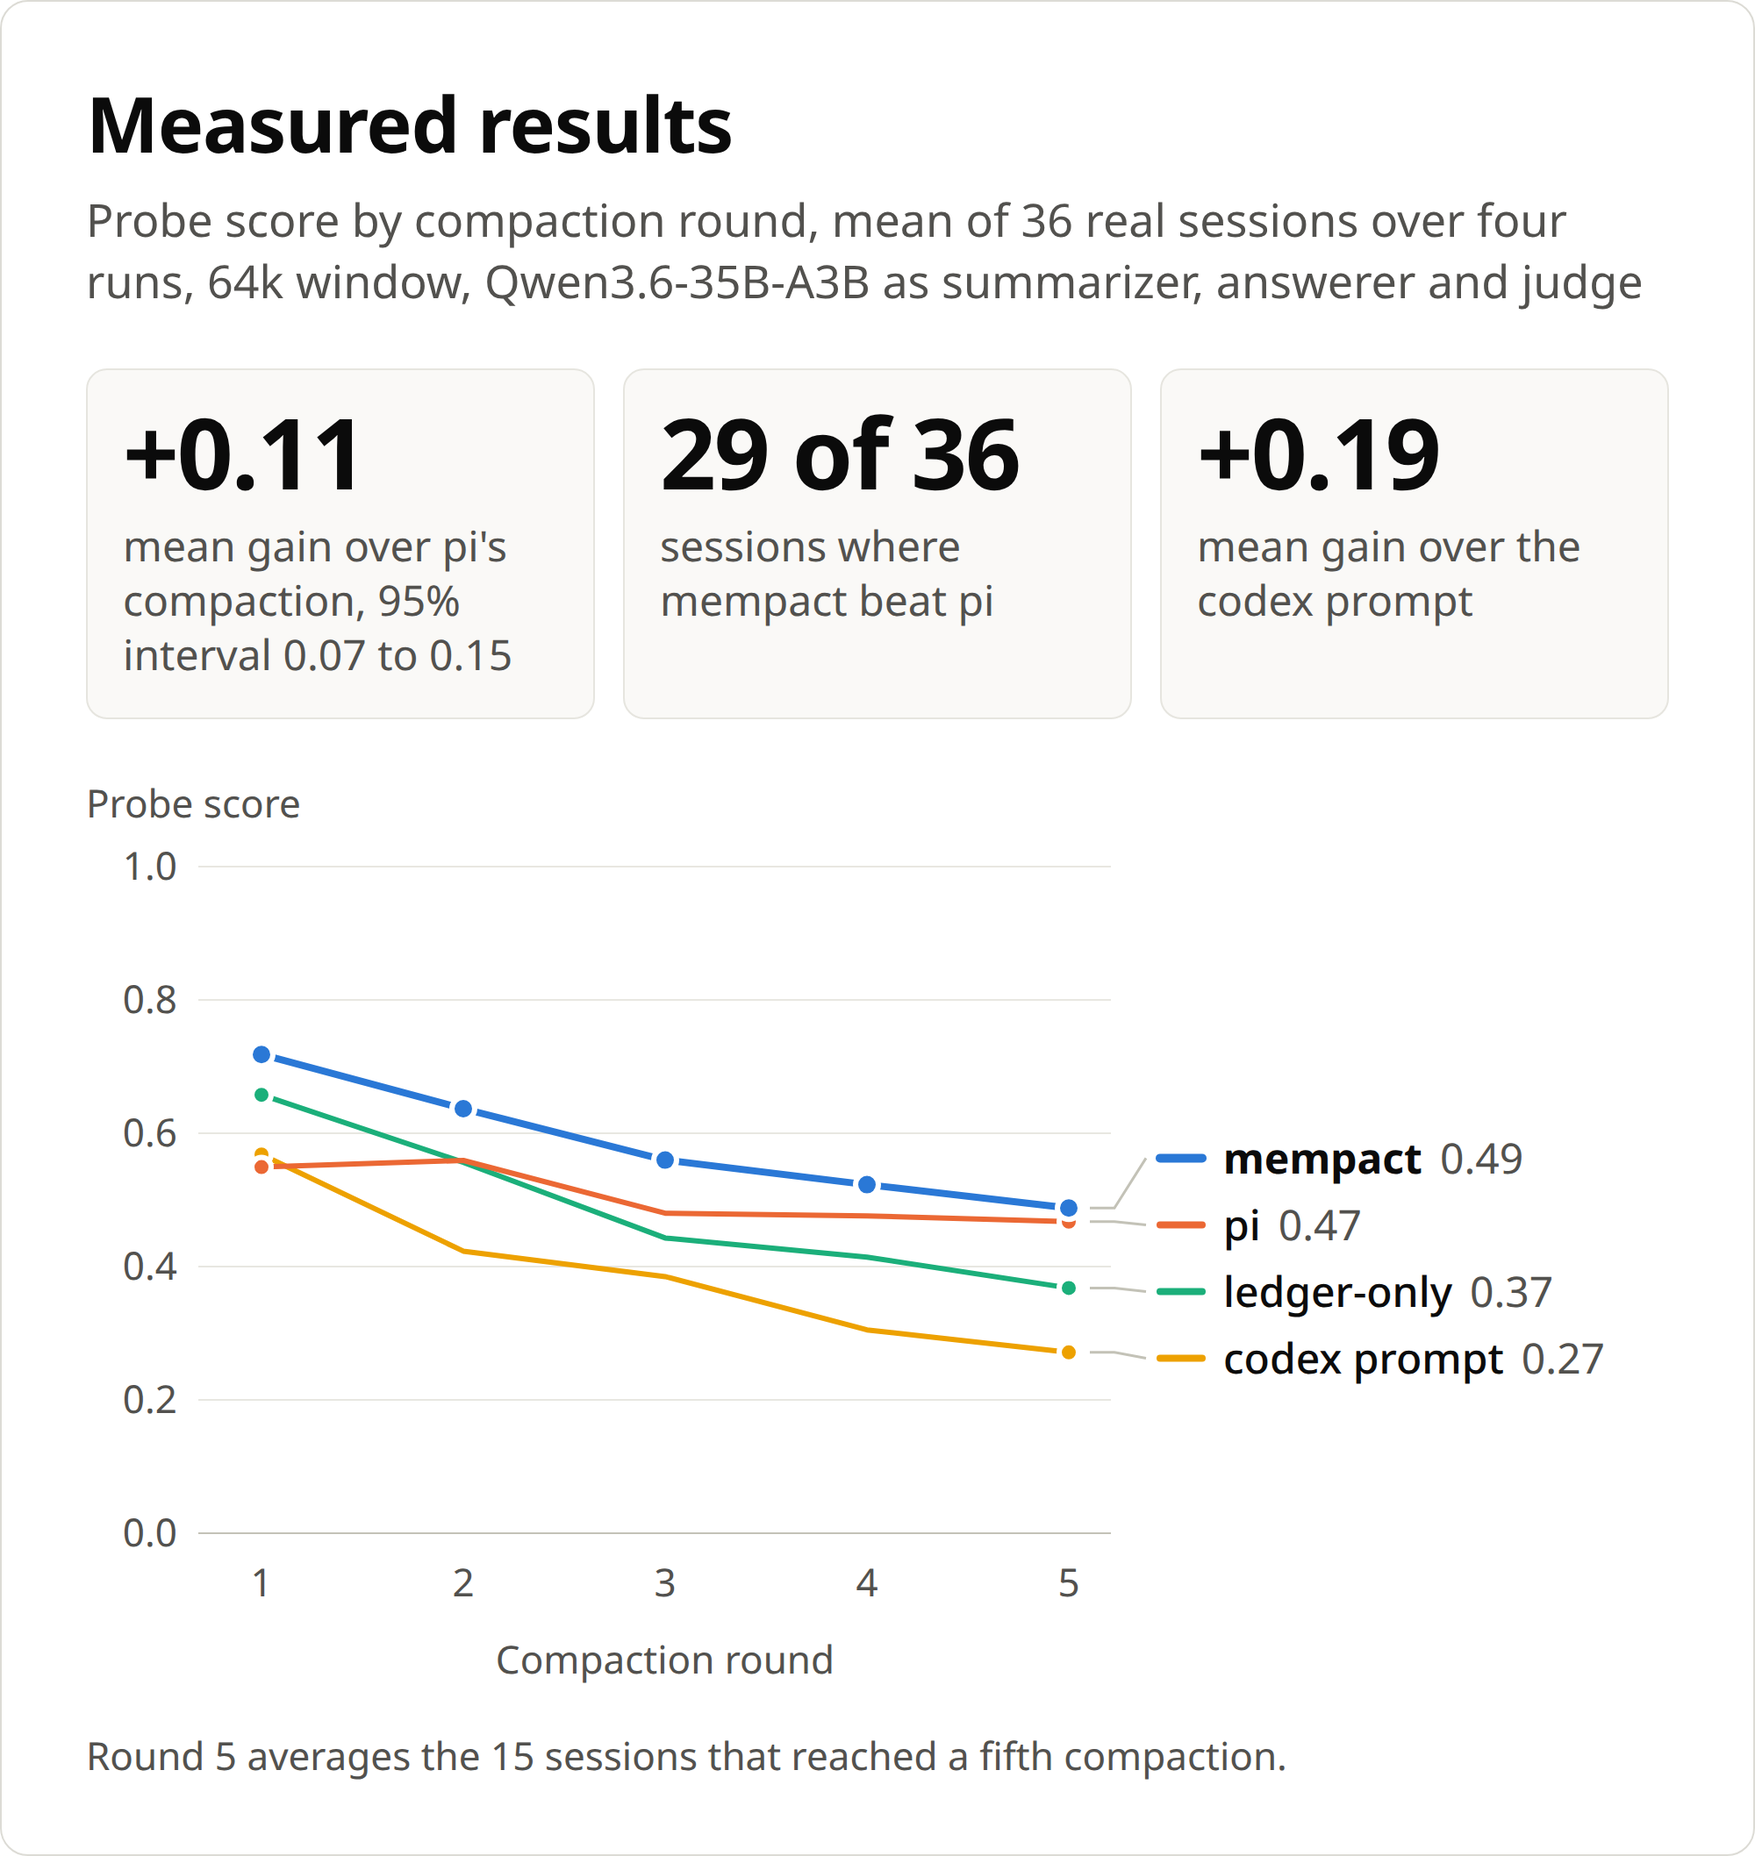
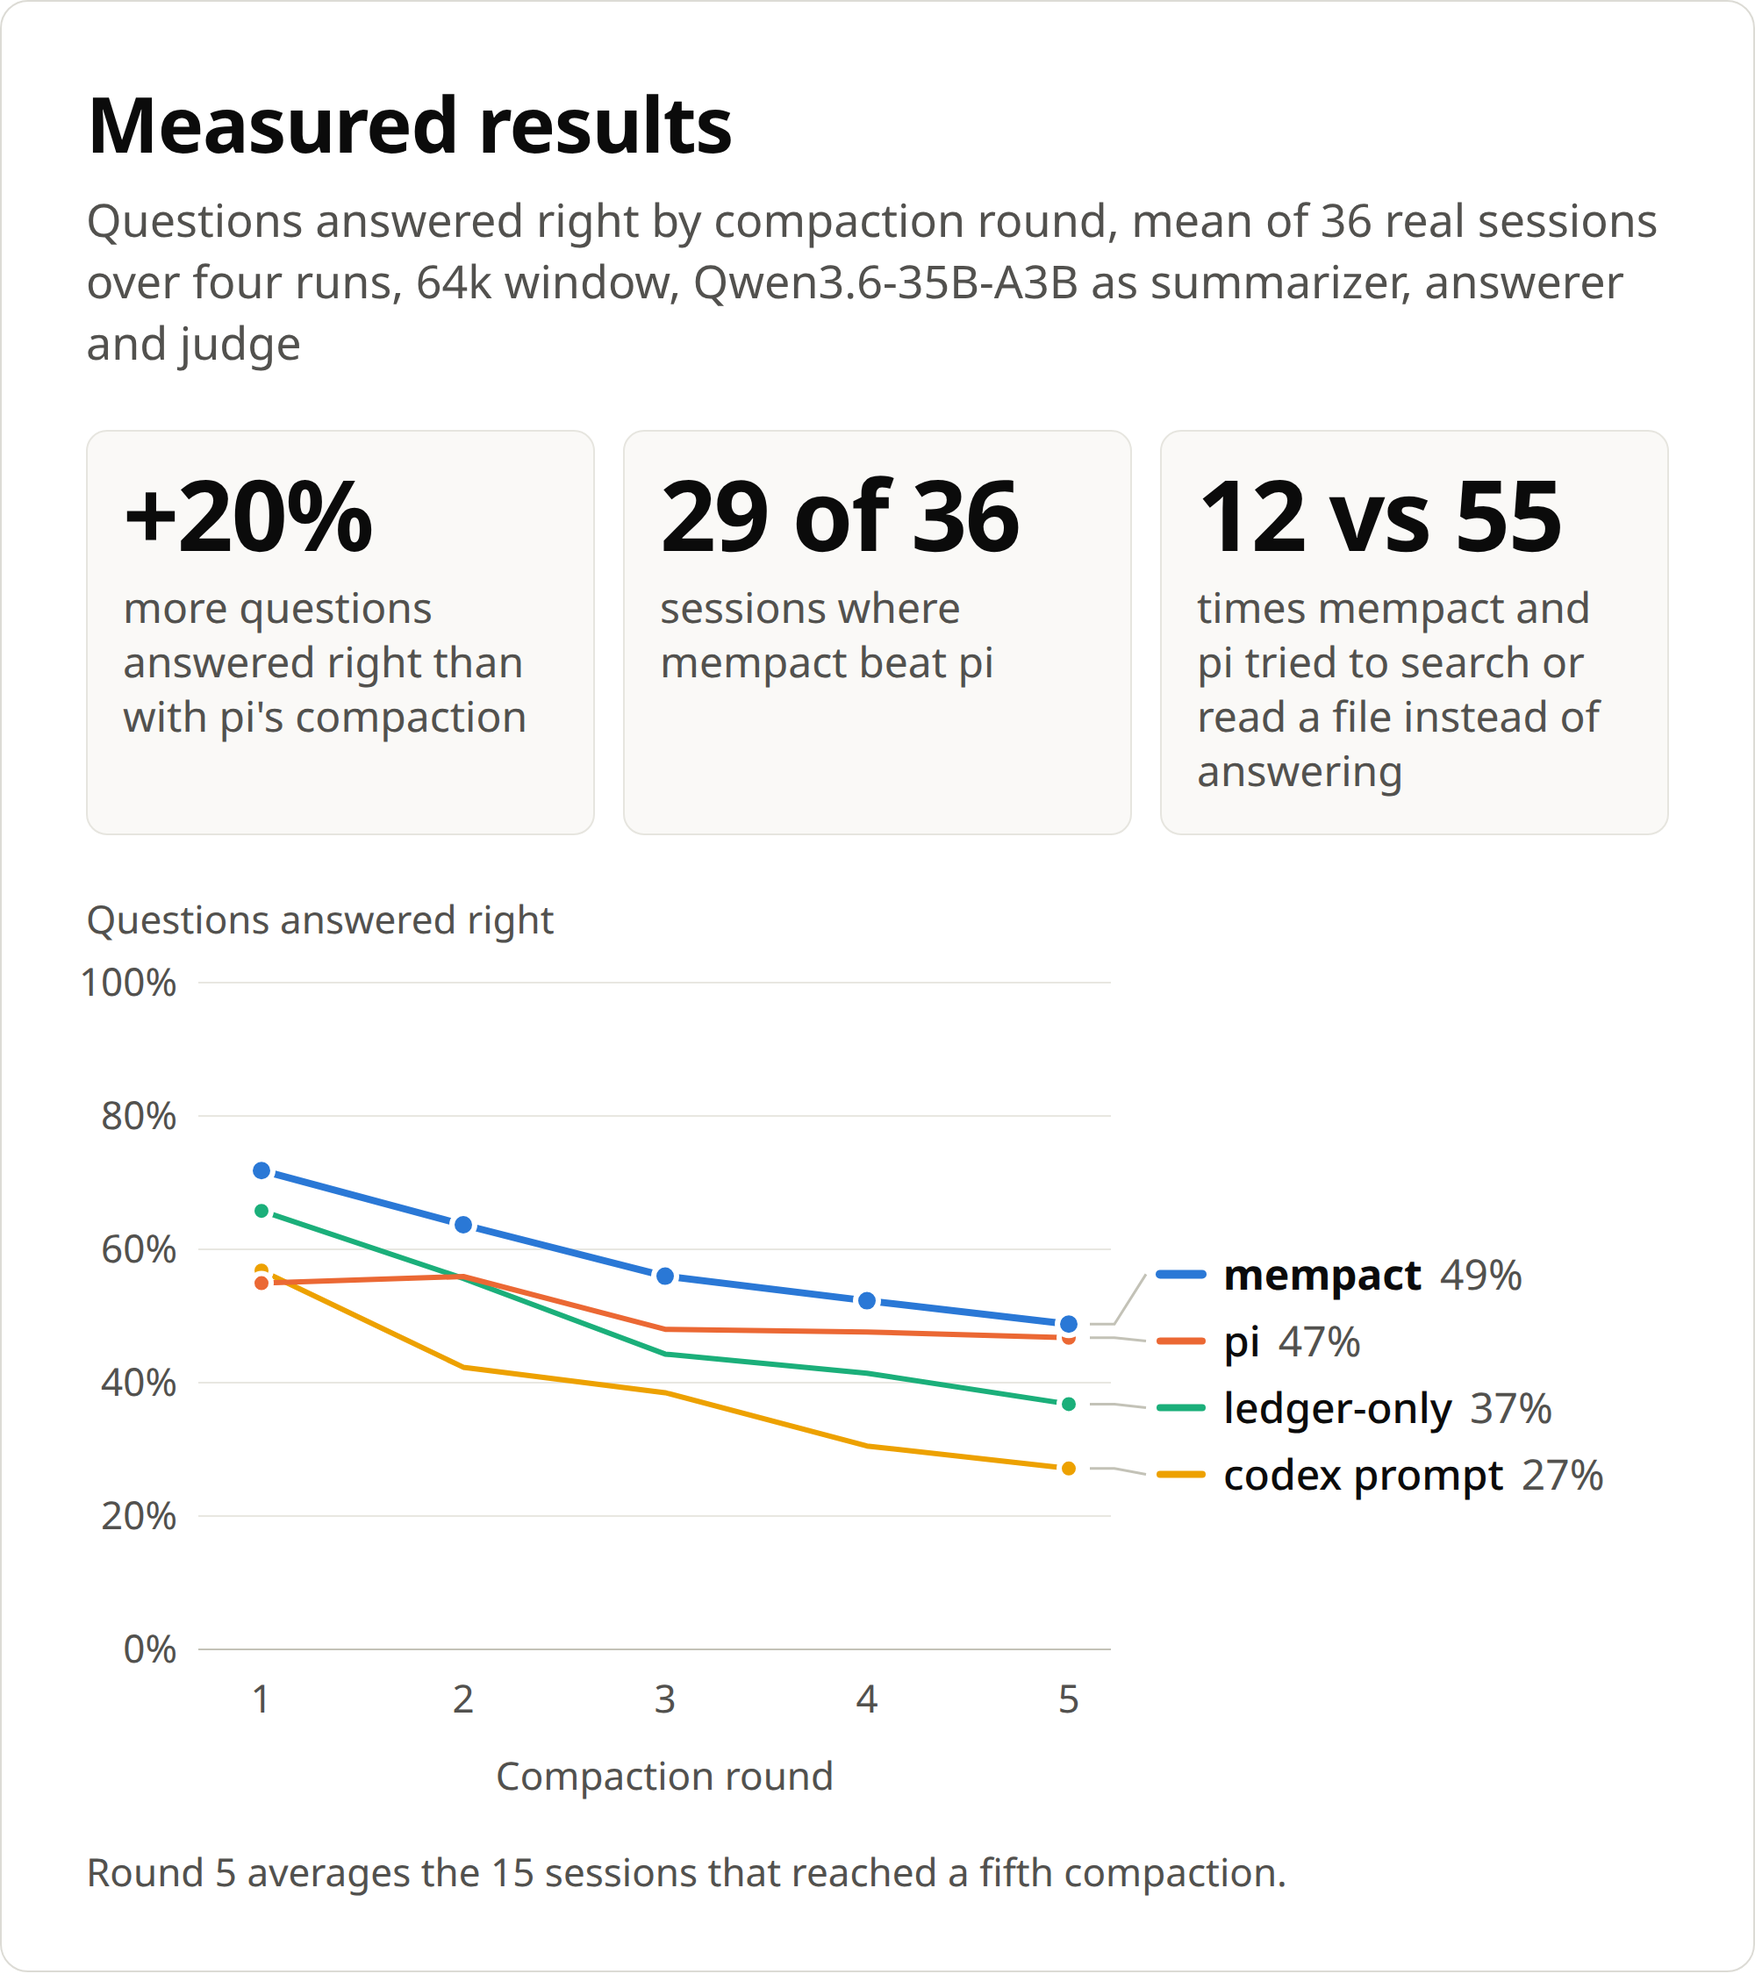
README: results in percentages and plain counts, search-instead-of-answering example

diff --git a/assets/charts/results.html b/assets/charts/results.html
@@ -64,27 +64,27 @@ svg { display: block; font-family: inherit; overflow: visible; }
 <body>
 <div class="card">
 <h1>Measured results</h1>
-<p class="sub">Probe score by compaction round, mean of 36 real sessions over four runs, 64k window, Qwen3.6-35B-A3B as summarizer, answerer and judge</p>
+<p class="sub">Questions answered right by compaction round, mean of 36 real sessions over four runs, 64k window, Qwen3.6-35B-A3B as summarizer, answerer and judge</p>
 <ul class="tiles">
-  <li><b>+0.11</b><span>mean gain over pi's compaction, 95% interval 0.07 to 0.15</span></li>
+  <li><b>+20%</b><span>more questions answered right than with pi's compaction</span></li>
   <li><b>29 of 36</b><span>sessions where mempact beat pi</span></li>
-  <li><b>+0.19</b><span>mean gain over the codex prompt</span></li>
+  <li><b>12 vs 55</b><span>times mempact and pi tried to search or read a file instead of answering</span></li>
 </ul>
 <div class="plot">
-<svg width="902" height="520" viewBox="0 0 902 520" role="img" aria-label="Line chart of probe score by compaction round for mempact, pi, ledger-only and the codex prompt">
-<text class="tick" x="0" y="20">Probe score</text>
+<svg width="902" height="520" viewBox="0 0 902 520" role="img" aria-label="Line chart of questions answered right by compaction round. mempact falls from 72% to 49%, pi from 55% to 47%, ledger-only from 66% to 37% and the codex prompt from 57% to 27%.">
+<text class="tick" x="0" y="20">Questions answered right</text>
 <line x1="64" x2="584" y1="428.0" y2="428.0" stroke="var(--axis)" stroke-width="1"/>
-<text class="tick" x="52" y="435.5" text-anchor="end">0.0</text>
+<text class="tick" x="52" y="435.5" text-anchor="end">0%</text>
 <line x1="64" x2="584" y1="352.0" y2="352.0" stroke="var(--grid)" stroke-width="1"/>
-<text class="tick" x="52" y="359.5" text-anchor="end">0.2</text>
+<text class="tick" x="52" y="359.5" text-anchor="end">20%</text>
 <line x1="64" x2="584" y1="276.0" y2="276.0" stroke="var(--grid)" stroke-width="1"/>
-<text class="tick" x="52" y="283.5" text-anchor="end">0.4</text>
+<text class="tick" x="52" y="283.5" text-anchor="end">40%</text>
 <line x1="64" x2="584" y1="200.0" y2="200.0" stroke="var(--grid)" stroke-width="1"/>
-<text class="tick" x="52" y="207.5" text-anchor="end">0.6</text>
+<text class="tick" x="52" y="207.5" text-anchor="end">60%</text>
 <line x1="64" x2="584" y1="124.0" y2="124.0" stroke="var(--grid)" stroke-width="1"/>
-<text class="tick" x="52" y="131.5" text-anchor="end">0.8</text>
+<text class="tick" x="52" y="131.5" text-anchor="end">80%</text>
 <line x1="64" x2="584" y1="48.0" y2="48.0" stroke="var(--grid)" stroke-width="1"/>
-<text class="tick" x="52" y="55.5" text-anchor="end">1.0</text>
+<text class="tick" x="52" y="55.5" text-anchor="end">100%</text>
 <text class="tick" x="100.0" y="464" text-anchor="middle">1</text>
 <text class="tick" x="215.0" y="464" text-anchor="middle">2</text>
 <text class="tick" x="330.0" y="464" text-anchor="middle">3</text>
@@ -108,16 +108,16 @@ svg { display: block; font-family: inherit; overflow: visible; }
 <circle cx="560.0" cy="242.6" r="6.5" fill="var(--s-mempact)" stroke="var(--surface)" stroke-width="3"/>
 <polyline points="572,242.6 586,242.6 604,214.2" fill="none" stroke="var(--axis)" stroke-width="1.5"/>
 <line x1="612" x2="636" y1="214.2" y2="214.2" stroke="var(--s-mempact)" stroke-width="5" stroke-linecap="round"/>
-<text x="648" y="222.8" style="font-size:24px"><tspan fill="var(--ink)" font-weight="700">mempact</tspan><tspan fill="var(--ink-2)" dx="10" style="font-variant-numeric:tabular-nums">0.49</tspan></text>
+<text x="648" y="222.8" style="font-size:24px"><tspan fill="var(--ink)" font-weight="700">mempact</tspan><tspan fill="var(--ink-2)" dx="10" style="font-variant-numeric:tabular-nums">49%</tspan></text>
 <polyline points="572,250.4 586,250.4 604,252.2" fill="none" stroke="var(--axis)" stroke-width="1.5"/>
 <line x1="612" x2="636" y1="252.2" y2="252.2" stroke="var(--s-pi)" stroke-width="4" stroke-linecap="round"/>
-<text x="648" y="260.8" style="font-size:24px"><tspan fill="var(--ink)" font-weight="500">pi</tspan><tspan fill="var(--ink-2)" dx="10" style="font-variant-numeric:tabular-nums">0.47</tspan></text>
+<text x="648" y="260.8" style="font-size:24px"><tspan fill="var(--ink)" font-weight="500">pi</tspan><tspan fill="var(--ink-2)" dx="10" style="font-variant-numeric:tabular-nums">47%</tspan></text>
 <polyline points="572,288.2 586,288.2 604,290.2" fill="none" stroke="var(--axis)" stroke-width="1.5"/>
 <line x1="612" x2="636" y1="290.2" y2="290.2" stroke="var(--s-ledger)" stroke-width="4" stroke-linecap="round"/>
-<text x="648" y="298.8" style="font-size:24px"><tspan fill="var(--ink)" font-weight="500">ledger-only</tspan><tspan fill="var(--ink-2)" dx="10" style="font-variant-numeric:tabular-nums">0.37</tspan></text>
+<text x="648" y="298.8" style="font-size:24px"><tspan fill="var(--ink)" font-weight="500">ledger-only</tspan><tspan fill="var(--ink-2)" dx="10" style="font-variant-numeric:tabular-nums">37%</tspan></text>
 <polyline points="572,324.9 586,324.9 604,328.2" fill="none" stroke="var(--axis)" stroke-width="1.5"/>
 <line x1="612" x2="636" y1="328.2" y2="328.2" stroke="var(--s-codex)" stroke-width="4" stroke-linecap="round"/>
-<text x="648" y="336.8" style="font-size:24px"><tspan fill="var(--ink)" font-weight="500">codex prompt</tspan><tspan fill="var(--ink-2)" dx="10" style="font-variant-numeric:tabular-nums">0.27</tspan></text>
+<text x="648" y="336.8" style="font-size:24px"><tspan fill="var(--ink)" font-weight="500">codex prompt</tspan><tspan fill="var(--ink-2)" dx="10" style="font-variant-numeric:tabular-nums">27%</tspan></text>
 </svg>
 </div>
 <p class="note">Round 5 averages the 15 sessions that reached a fifth compaction.</p>

diff --git a/assets/charts/mempact-vs-pi-by-session.html b/assets/charts/mempact-vs-pi-by-session.html
@@ -60,26 +60,26 @@ svg { display: block; font-family: inherit; overflow: visible; }
 <body>
 <div class="card">
 <h1>mempact beat pi in 29 of 36 sessions</h1>
-<p class="sub">Per-session gain in probe score, mean of four runs, 64k window, Qwen3.6-35B-A3B</p>
+<p class="sub">Per-session gain in questions answered right, mean of four runs, 64k window, Qwen3.6-35B-A3B</p>
 <div class="plot">
-<svg width="902" height="596" viewBox="0 0 902 596" role="img" aria-label="Bar chart of the gain in probe score of mempact over pi on each of 36 sessions, sorted. 29 bars are above zero and 7 are below.">
-<text class="tick" x="0" y="20">Gain over pi</text>
+<svg width="902" height="596" viewBox="0 0 902 596" role="img" aria-label="Bar chart of the gain in questions answered right, in percentage points, of mempact over pi on each of 36 sessions, sorted. 29 bars are above zero and 7 are below.">
+<text class="tick" x="0" y="20">Gain over pi, percentage points</text>
 <line x1="64" x2="902" y1="538.0" y2="538.0" stroke="var(--grid)" stroke-width="1"/>
-<text class="tick" x="52" y="545.5" text-anchor="end">−0.2</text>
+<text class="tick" x="52" y="545.5" text-anchor="end">−20</text>
 <line x1="64" x2="902" y1="468.0" y2="468.0" stroke="var(--grid)" stroke-width="1"/>
-<text class="tick" x="52" y="475.5" text-anchor="end">−0.1</text>
+<text class="tick" x="52" y="475.5" text-anchor="end">−10</text>
 <line x1="64" x2="902" y1="398.0" y2="398.0" stroke="var(--grid)" stroke-width="1"/>
-<text class="tick" x="52" y="405.5" text-anchor="end">0.0</text>
+<text class="tick" x="52" y="405.5" text-anchor="end">0</text>
 <line x1="64" x2="902" y1="328.0" y2="328.0" stroke="var(--grid)" stroke-width="1"/>
-<text class="tick" x="52" y="335.5" text-anchor="end">+0.1</text>
+<text class="tick" x="52" y="335.5" text-anchor="end">+10</text>
 <line x1="64" x2="902" y1="258.0" y2="258.0" stroke="var(--grid)" stroke-width="1"/>
-<text class="tick" x="52" y="265.5" text-anchor="end">+0.2</text>
+<text class="tick" x="52" y="265.5" text-anchor="end">+20</text>
 <line x1="64" x2="902" y1="188.0" y2="188.0" stroke="var(--grid)" stroke-width="1"/>
-<text class="tick" x="52" y="195.5" text-anchor="end">+0.3</text>
+<text class="tick" x="52" y="195.5" text-anchor="end">+30</text>
 <line x1="64" x2="902" y1="118.0" y2="118.0" stroke="var(--grid)" stroke-width="1"/>
-<text class="tick" x="52" y="125.5" text-anchor="end">+0.4</text>
+<text class="tick" x="52" y="125.5" text-anchor="end">+40</text>
 <line x1="64" x2="902" y1="48.0" y2="48.0" stroke="var(--grid)" stroke-width="1"/>
-<text class="tick" x="52" y="55.5" text-anchor="end">+0.5</text>
+<text class="tick" x="52" y="55.5" text-anchor="end">+50</text>
 <rect x="76.0" y="398.0" width="15" height="96.1" rx="2" fill="var(--muted)"/>
 <rect x="99.1" y="398.0" width="15" height="43.5" rx="2" fill="var(--muted)"/>
 <rect x="122.1" y="398.0" width="15" height="24.6" rx="2" fill="var(--muted)"/>
@@ -120,7 +120,7 @@ svg { display: block; font-family: inherit; overflow: visible; }
 <text class="tick" x="483.0" y="584" text-anchor="middle">Sessions, sorted by gain</text>
 </svg>
 </div>
-<p class="note">Each bar is one session. The gain is mempact's probe score minus pi's, averaged over every round of all four runs.</p>
+<p class="note">Each bar is one session. The gain is mempact's share of questions answered right minus pi's, in percentage points, averaged over every round of all four runs.</p>
 </div>
 </body>
 </html>

diff --git a/README.md b/README.md
@@ -11,8 +11,11 @@ core that any harness can call.
 
 ## Results
 
+With mempact's compaction, the model answered about 20% more questions
+right than with pi's, over 36 real coding sessions.
+
 <p align="center">
-  <img src="assets/results.png" alt="Measured results: mempact gains 0.11 over pi, beats pi in 29 of 36 sessions, and leads in every compaction round" width="100%">
+  <img src="assets/results.png" alt="Measured results: mempact answers 20% more questions right than pi, beats pi in 29 of 36 sessions, and tried to search or read a file instead of answering 12 times against pi's 55. A line chart shows questions answered right falling over five compaction rounds from 72% to 49% for mempact, 55% to 47% for pi, 66% to 37% for the ledger alone and 57% to 27% for the codex prompt." width="100%">
 </p>
 
 The benchmark replays 36 real Claude Code sessions through four compaction
@@ -21,30 +24,42 @@ up to five compactions, which covers its first 100k to 230k tokens. At each
 boundary the model reads the messages about to be dropped and writes the
 questions a resuming agent would need answered. Every rule then answers
 every question so far from its own compacted context, and the model grades
-the answers. Questions stay in the pool across rounds, so forgetting shows
-up as decay. One local model, Qwen3.6-35B-A3B, did all of it for all four
-rules.
+the answers. A half-right answer counts as half. Questions stay in the pool
+across rounds, so forgetting shows up as decay. One local model,
+Qwen3.6-35B-A3B, did all of it for all four rules.
 
 The whole benchmark ran four times, once with greedy summaries and three
-times with sampled ones. Pooled over the four runs, mempact scored 0.11
-higher than pi, with a 95% interval of 0.07 to 0.15. The single runs gave
-0.10, 0.12, 0.09 and 0.11, each within 0.02 of the pooled number. mempact
-also beat the ledger alone by 0.09 and the codex prompt by 0.19.
+times with sampled ones. Pooled over the four runs, pi answered 53% of the
+questions right per session, and mempact answered 11 percentage points
+more, with a 95% interval of 7 to 15 points. Each single run gave between
+9 and 12 points, and mempact beat pi in 29 of the 36 sessions. mempact also
+beat the ledger alone by 9 points and the codex prompt by 19.
 
 <p align="center">
-  <img src="assets/mempact-vs-pi-by-session.png" alt="Sorted bar chart of mempact's gain over pi on each of the 36 sessions, 29 above zero and 7 below" width="100%">
+  <img src="assets/mempact-vs-pi-by-session.png" alt="Sorted bar chart of mempact's gain over pi in percentage points of questions answered right on each of the 36 sessions, 29 bars above zero and 7 below, ranging from minus 14 to plus 47 points" width="100%">
 </p>
+
+Each rule gave 9,736 answers over the four runs. Counted over all of them,
+which weights the later and harder rounds more, 40% of mempact's answers
+were fully right against 32% of pi's, and 26% were wrong against 31%. The
+two rules said "unknown" about as often, 1,186 times for mempact and 1,239
+for pi, so mempact's extra right answers came from what its context held.
+Pi tried to run a search or read a file instead of answering 55 times, and
+mempact did that 12 times. The ledger alone got 33% fully right and 39%
+wrong, and the codex prompt got 25% right and 51% wrong, with 4,090
+"unknown" answers.
 
 Some caveats apply. Pi's prompt asks for concise sections, and this model
 took that literally, so in the first round pi wrote about a quarter as much
-summary as mempact. The lead also narrows as rounds go on, and on each
-session's final round mempact led pi by 0.06, with an interval of 0.03 to
-0.09. One model judged every answer, and all 36 sessions come from one
-user. Three sessions also ran at a 180k window with two to five compactions
-each, and mempact led pi there by 0.11 on average, from 0.08 to 0.15, but
-three sessions are too few to count as a result. The method, its limits and
-how to run it are in [bench/README.md](bench/README.md). The numbers are in
-`bench/results/`.
+summary as mempact. The lead is largest right after the first compaction,
+at 17 points, and shrinks to 2 points by the fifth, where both rules answer
+just under half the questions right. On each session's final round mempact
+led pi by 6 points, with an interval of 3 to 9. One model judged every
+answer, and all 36 sessions come from one user. Three sessions also ran at
+a 180k window with two to five compactions each, and mempact led pi there
+by 11 points on average, from 8 to 15, but three sessions are too few to
+count as a result. The method, its limits and how to run it are in
+[bench/README.md](bench/README.md). The numbers are in `bench/results/`.
 
 ## How it works
 
